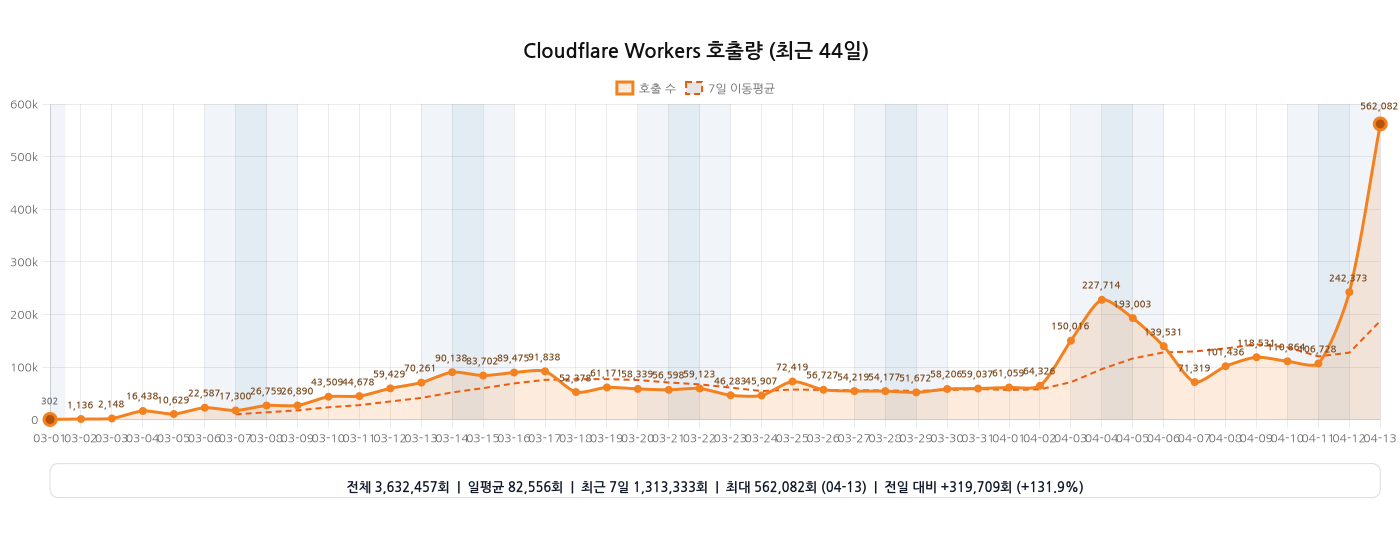
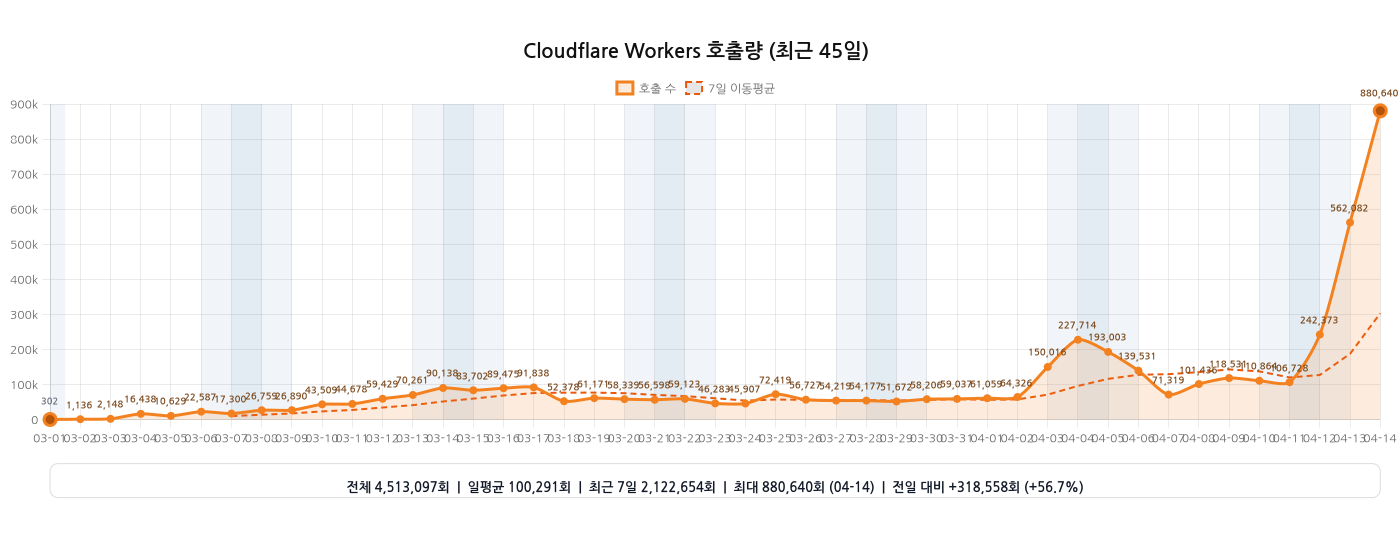
chore: 워커 호출량 그래프 자동 갱신

diff --git a/README.md b/README.md
@@ -18,11 +18,11 @@
 [![Coverage](https://github.com/hmmhmmhm/daiso-mcp/actions/workflows/coverage.yml/badge.svg?branch=main)](https://github.com/hmmhmmhm/daiso-mcp/actions/workflows/coverage.yml)
 
 <!-- WORKERS_INVOCATIONS_CHART:START -->
-<h3>Cloudflare Workers 호출량 (2026-03-01 ~ 2026-04-13, 44일)</h3>
+<h3>Cloudflare Workers 호출량 (2026-03-01 ~ 2026-04-14, 45일)</h3>
 
-<img src="./assets/analytics/workers-invocations.png?v=2026-04-13T15:51:44.628Z" alt="Cloudflare Workers 호출량 그래프 (2026-03-01 ~ 2026-04-13)" width="100%">
+<img src="./assets/analytics/workers-invocations.png?v=2026-04-14T15:49:14.304Z" alt="Cloudflare Workers 호출량 그래프 (2026-03-01 ~ 2026-04-14)" width="100%">
 
-<sub>기준 워커: <code>daiso-mcp</code> · 마지막 갱신: 2026-04-14 00:51 KST</sub>
+<sub>기준 워커: <code>daiso-mcp</code> · 마지막 갱신: 2026-04-15 00:49 KST</sub>
 
 <!-- WORKERS_INVOCATIONS_CHART:END -->
 
